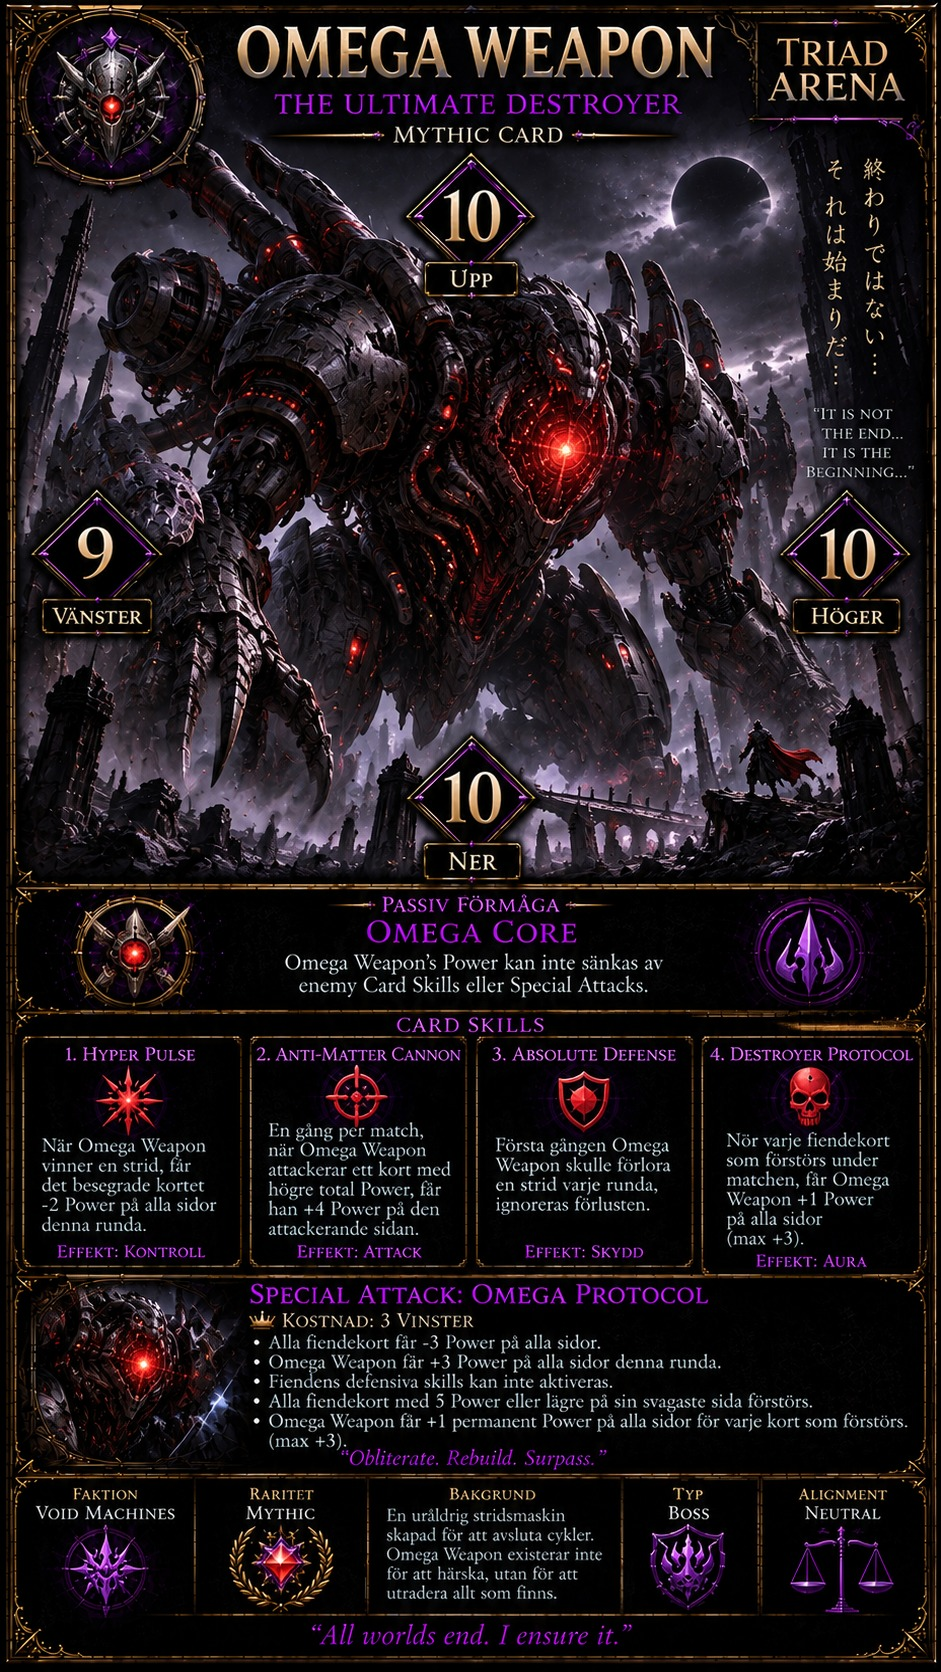
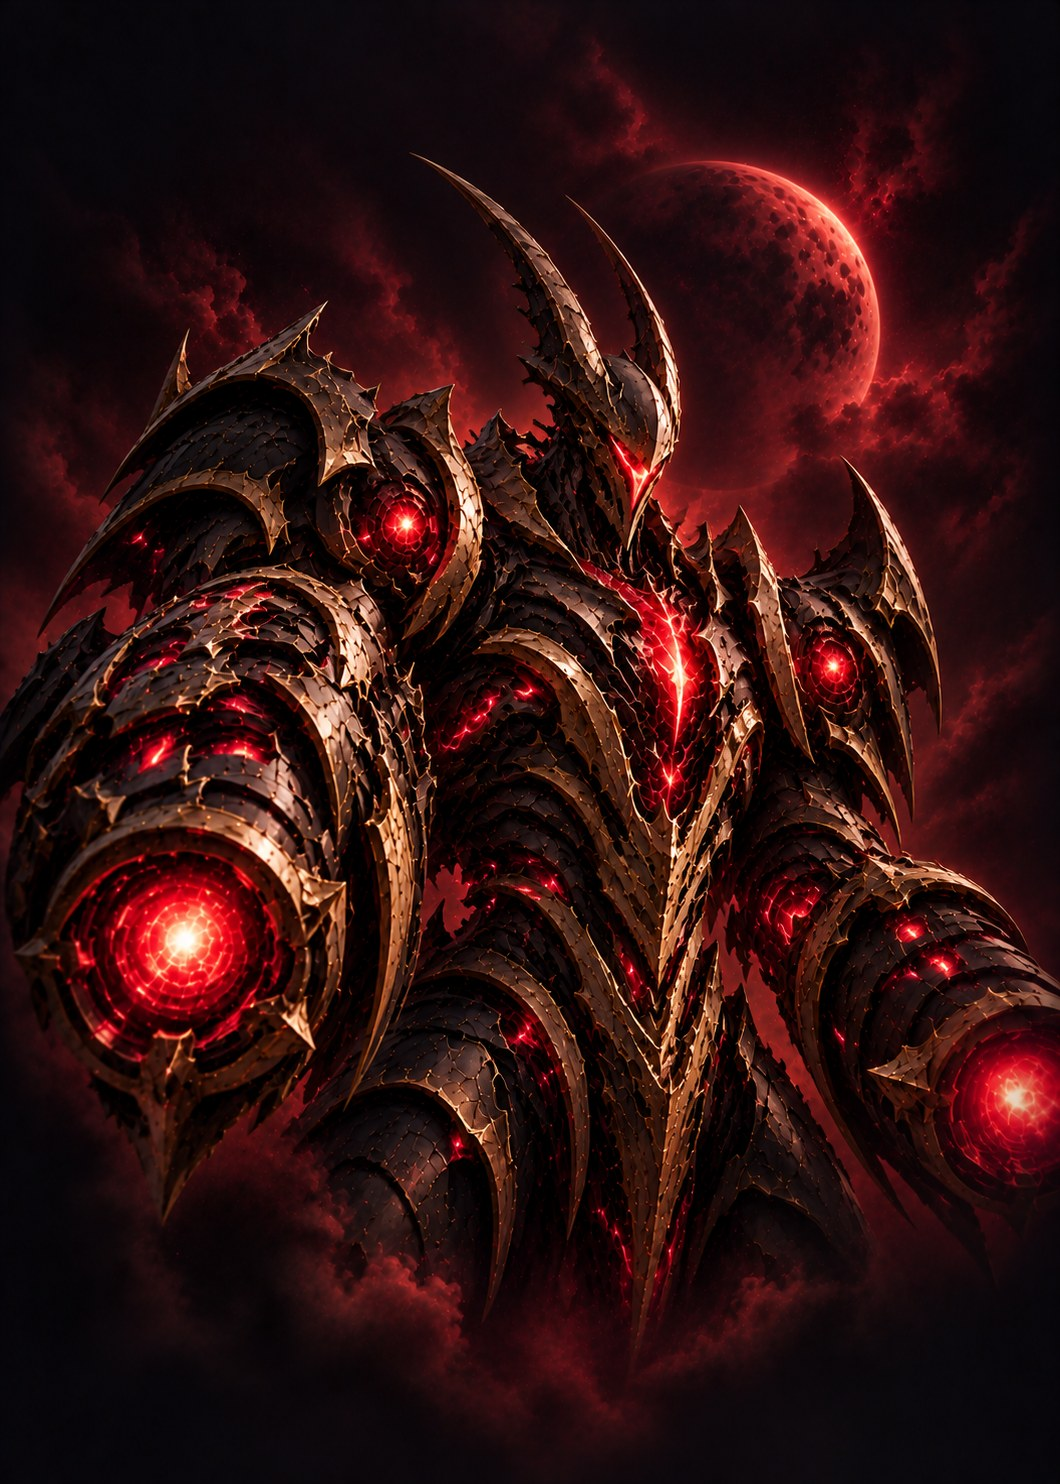
Replace Omega Weapon art and add Ultima Weapon art assets
New frameless Omega Weapon poster and board crop. Ultima Weapon art
added as files only; the card itself isn't defined yet.

Claude-Session: https://claude.ai/code/session_017qEy7DFqN17AmiHVUr2oXo

diff --git a/index.html b/index.html
@@ -3943,7 +3943,7 @@ const CARD_IMAGES = {
   gambler: 'cards/card-gambler.jpg',
   shiva: 'cards/card-shiva.jpg',
   leviathan: 'cards/card-leviathan.jpg',
-  omegaweapon: 'cards/card-omegaweapon.jpg',
+  omegaweapon: 'cards/card-omegaweapon.jpg?v=2',
   yojimbo: 'cards/card-yojimbo.jpg',
   chocoboking: 'cards/card-chocoboking.jpg',
   odin: 'cards/card-odin.jpg',
@@ -4058,7 +4058,7 @@ const FULL_CARD_IMAGES = {
   littledeath: 'card-littledeath-full.jpg',
   shiva: 'card-shiva-full.jpg',
   leviathan: 'card-leviathan-full.jpg',
-  omegaweapon: 'card-omegaweapon-full.jpg',
+  omegaweapon: 'card-omegaweapon-full.jpg?v=2',
   yojimbo: 'card-yojimbo-full.jpg',
   chocoboking: 'card-chocoboking-full.jpg',
   odin: 'card-odin-full.jpg',
